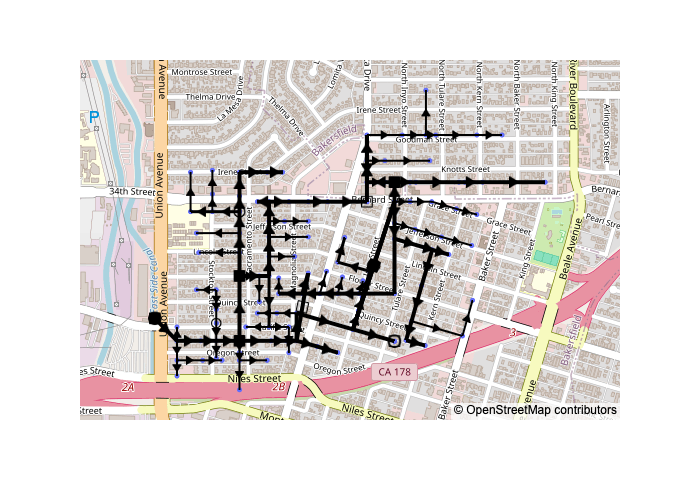
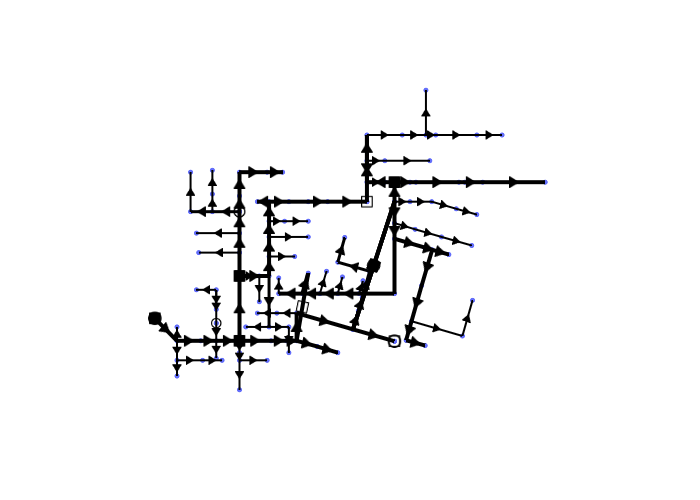
Fix mapping autotest error

diff --git a/tools/mapping.py b/tools/mapping.py
@@ -83,10 +83,9 @@ except ModuleNotFoundError:
         defaults = {
             "lat" : "latitude",
             "lon" : "longitude",
-            f"{DEFAULT_MAPPER}x_style" : "open-street-map",
+            f"{DEFAULT_MAPPER}_style" : "open-street-map",
             "zoom" : 2.7,
             "center" : {"lat":40,"lon":-96},
-            "text" : "name",
         }
         network = {
             "powerflow" : {

diff --git a/tools/mapping_config.py b/tools/mapping_config.py
@@ -5,7 +5,6 @@ defaults = {
     f"{mapper}_style" : "open-street-map",
     "zoom" : 2.7,
     "center" : {"lat":40,"lon":-96},
-    "text" : "name",
     }
 network = {
     "powerflow" : {
